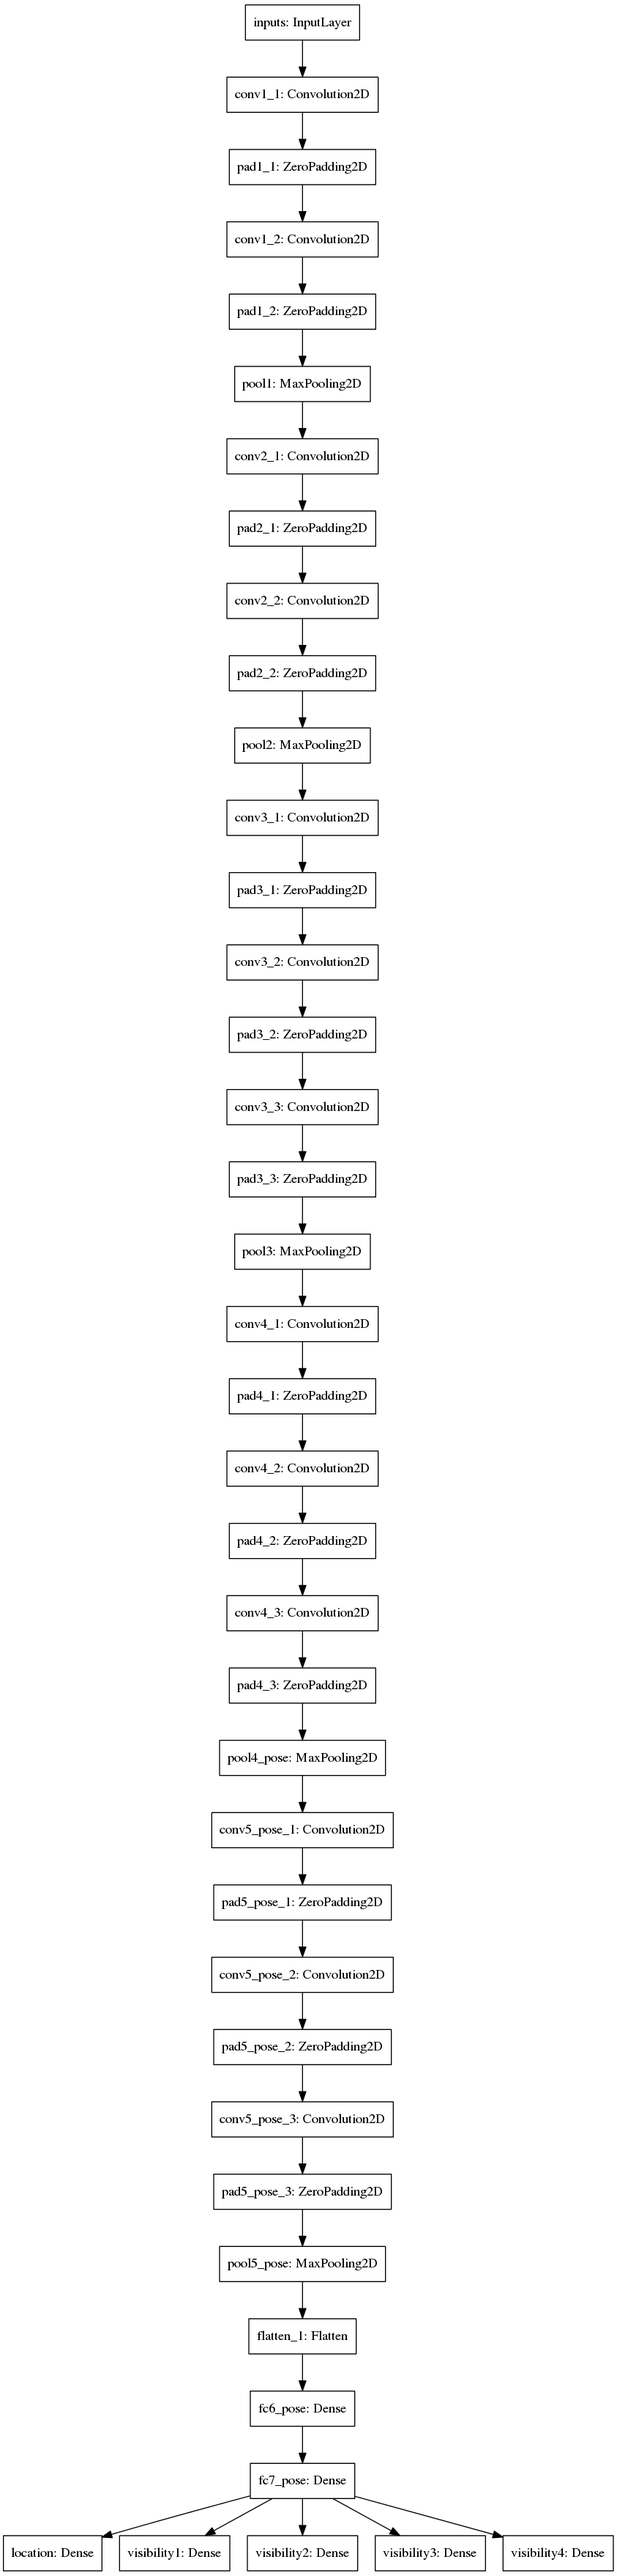
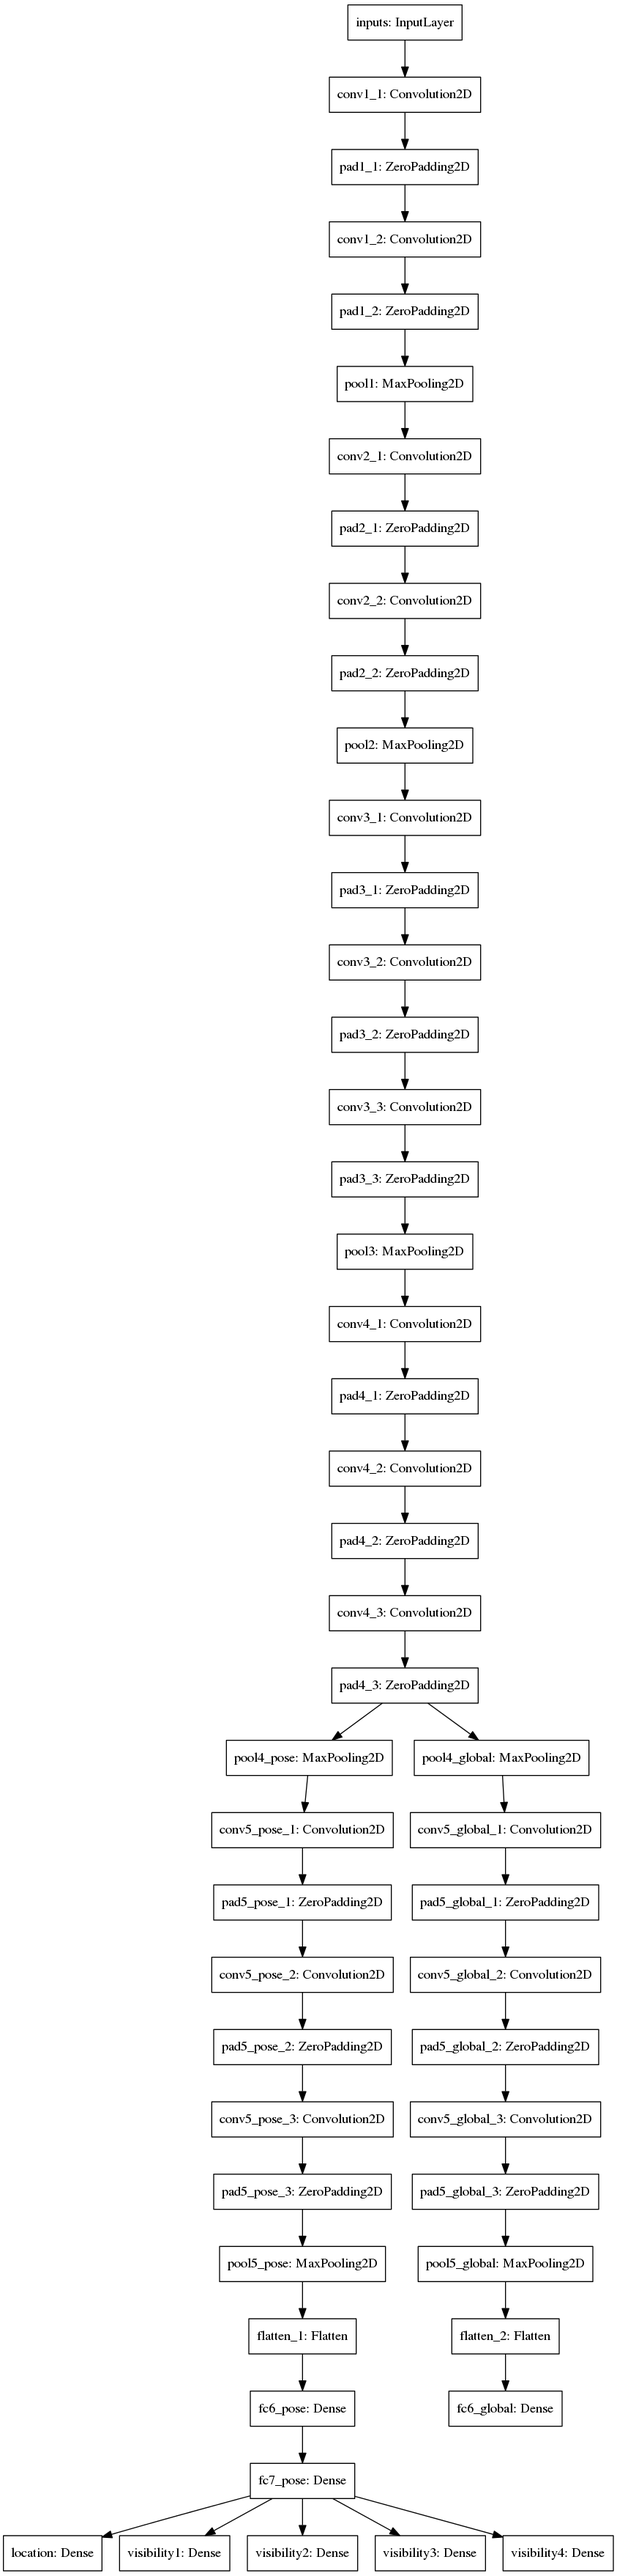
update branch global

diff --git a/fashionnet.py b/fashionnet.py
@@ -67,7 +67,7 @@ g = Flatten()(g)
 fc6_global = Dense(4096, activation='relu', name='fc6_global')(g)
 
 
-outputs=[loc,vis1,vis2,vis3,vis4]
+outputs=[loc, vis1, vis2, vis3, vis4, fc6_global]
 
 model = Model(input=inputs, output=outputs)
 model.summary()
